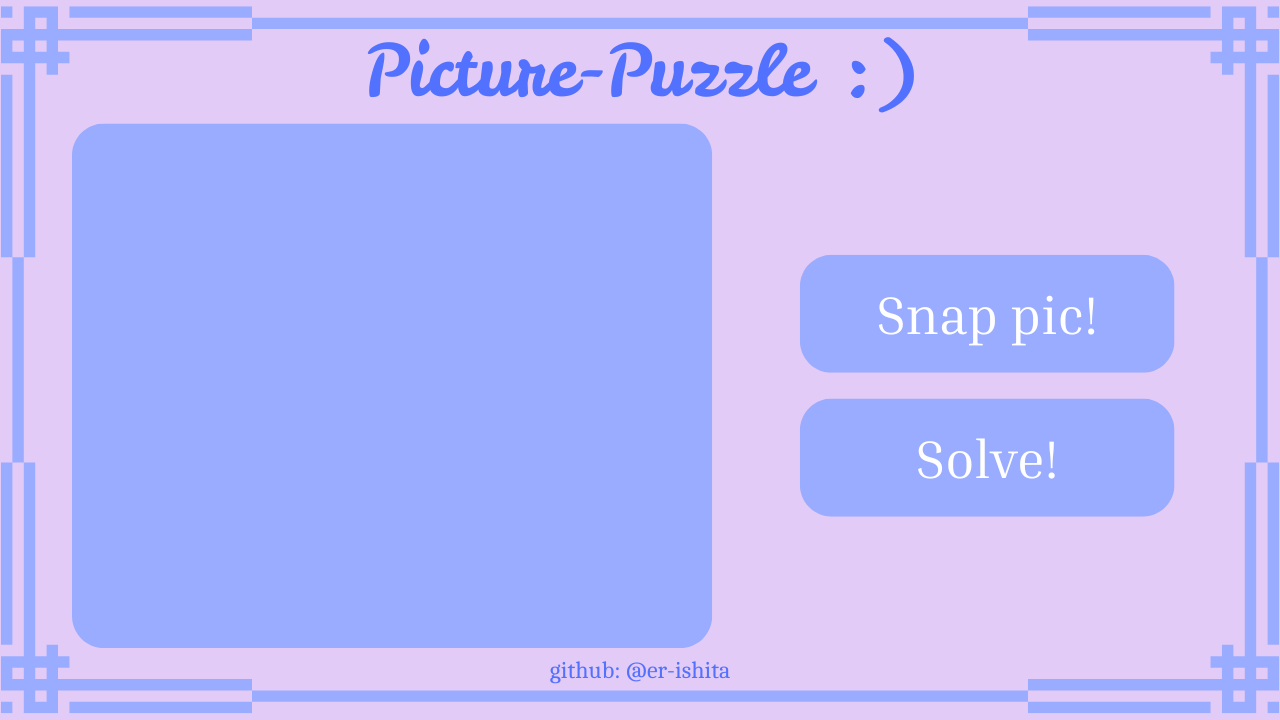
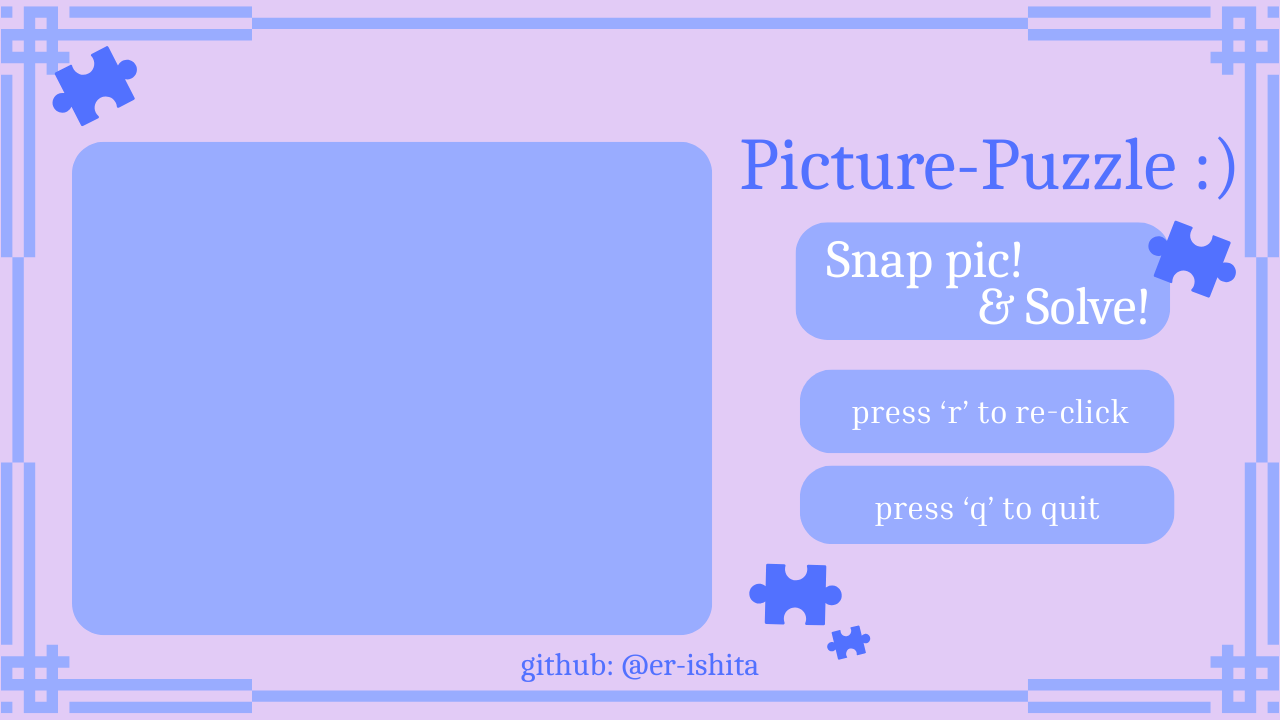
Image overlay

diff --git a/main.py b/main.py
@@ -21,11 +21,56 @@ start=cv2.imread("Picture-Puzzle/start.png")
 detect=htm.HandDetector()
 clickPic=False
 snapped=None
+saved=snapped
+
+puz=None
+
+puzHeight,puzWidth=640,527
+vl1,vl2=int(puzHeight/3),int(2*puzHeight/3)
+hl1,hl2=int(puzWidth/3),int(2*puzWidth/3)
 
 def overlay(background, overlay):
-    alpha=0.6
+    alpha=0.2
     blend=cv2.addWeighted(background, 1-alpha, overlay,alpha,0)
+
+    h,w,_=overlay.shape
+    cv2.line(blend, (0,vl1), (w-1,vl1), (0,0,0), 2)
+    cv2.line(blend, (0,vl2), (w-1,vl2), (0,0,0), 2)
+
+    cv2.line(blend, (hl1,0), (hl1,h-1), (0,0,0), 2)
+    cv2.line(blend, (hl2,0), (hl2,h-1), (0,0,0), 2)
+
     return blend
+
+########################################under construction
+def puzzleRandom(snap):
+    a11=snap[0:hl1,0:vl1]
+    a12=snap[0:hl1,vl1:vl2]
+    a13=snap[0:hl1,vl2:puzWidth]
+
+    a21=snap[hl1:hl2,0:vl1]
+    a22=snap[hl1:hl2,vl1:vl2]
+    a23=snap[hl1:hl2,vl2:puzWidth]
+
+    a31=snap[hl2:puzHeight,0:vl1]
+    a32=snap[hl2:puzHeight,vl1:vl2]
+    a33=snap[hl2:puzHeight,vl2:puzWidth]
+
+    puzzle=np.array([
+        a11,a12,a13,
+        a21,a22,a23,
+        a31,a32,a33
+    ])
+
+    np.random.shuffle(puzzle)
+
+    puzzle=puzzle.reshape(3,3)
+    return puzzle
+
+def puzzleSwap(c1,c2,puzzle):
+    puzzle[c1],puzzle[c2]= puzzle[c2],puzzle[c1]
+
+###############################################################
 
 while True:
     succ, img=cam.read()
@@ -64,20 +109,20 @@ while True:
             lowx,lowy=min(tx1,tx2),min(ty1,ty2)
             highx,highy=max(tx1,tx2),max(ty1,ty2)
             snapped=img[lowy:highy, lowx:highx].copy()
-            lastSnap=time.time()
+            saved=snapped
+            # puz=puzzleRandom(snapped)
     
-    # if clickPic:
-    #     img=overlay(snapped, img)
+    if clickPic and snapped is not None:
+        h,w,_=img.shape
+        snapped=cv2.resize(snapped,(640,527))
+        img=overlay(snapped, img)
+
     if clickPic and snapped is not None:
         cv2.imshow("Snapp",snapped)
     
     frame=start.copy()
     frame[120:120+527,72:72+640]=img
-    
-    #ctime=time.time()
-    #fps=int(1/(ctime-ptime))
-    #ptime=ctime
-    #cv2.putText(img, f'FPS: {fps}', (10,70),cv2.FONT_HERSHEY_COMPLEX,3,(0,0,255),2)
+
     cv2.imshow("Picture-Puzzle",frame)
     
     key=cv2.waitKey(1)
